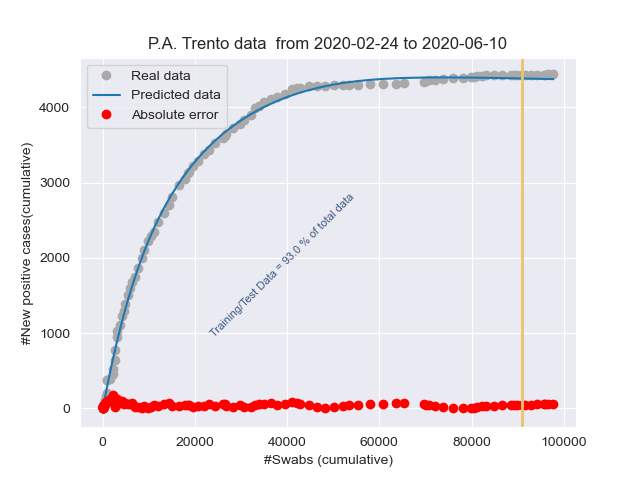
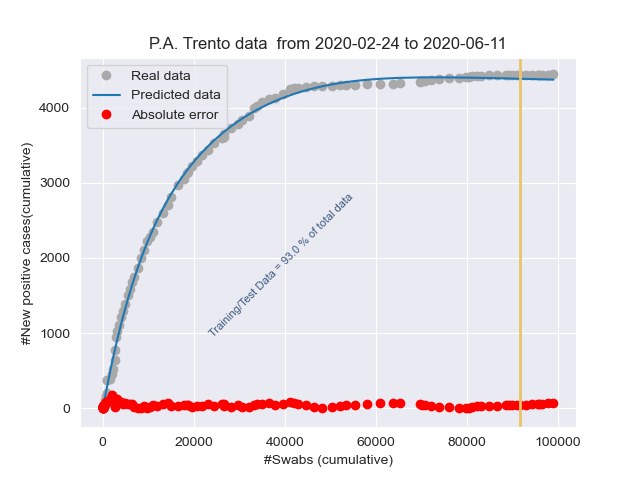
Add files via upload

diff --git a/stat_Friuli Venezia Giulia.html b/stat_Friuli Venezia Giulia.html
@@ -1,1 +1,1 @@
-<!DOCTYPE html><html lang="it"><head><title>Results</title><meta charset="utf-8"><meta name="viewport" content="width=device-width, initial-scale=1"><link rel="stylesheet" href="bootstrap.min.css"><script src="https://ajax.googleapis.com/ajax/libs/jquery/3.4.1/jquery.min.js"></script><script src="https://maxcdn.bootstrapcdn.com/bootstrap/3.4.1/js/bootstrap.min.js"></script></head><body><h3>Day: 2020-06-10</h3><p class="lead my-3">New positive cases: <b>2</b></p><p class="lead my-3">Variation of positive cases: <b>inf%</b></p><p class="lead my-3">Number of swabs: <b>3977.0</b></p><p class="lead my-3">Variation of swabs: <b>2.67%</b></p><p class="lead my-3">Postive cases/Swabs: <b>0.05 %</b></p><p class="lead my-3">Number of people admitted to Intensive care: <b>1</b></p><p class="lead my-3">Number of recovered people: <b>16.0</b></p><p class="lead my-3">Number of dead people: <b>1.0</b></p><h3>Total</h3><p class="lead my-3">Population of  Friuli Venezia Giulia: <b>1215220</b> <a href="http://dati.istat.it/Index.aspx?QueryId=18548" target="_blank">ISTAT data</a></p><p class="lead my-3">Total number of positive cases from 2020-02-24 00:00:00 to 2020-06-10: <b> 3286</b></p><p class="lead my-3">Total number of swabs from 2020-02-24 00:00:00 to 2020-06-10: <b> 152866</b></p><p class="lead my-3">TotalSwabs/Population: <b> 12.58%</b></p></body></html>
+<!DOCTYPE html><html lang="it"><head><title>Results</title><meta charset="utf-8"><meta name="viewport" content="width=device-width, initial-scale=1"><link rel="stylesheet" href="bootstrap.min.css"><script src="https://ajax.googleapis.com/ajax/libs/jquery/3.4.1/jquery.min.js"></script><script src="https://maxcdn.bootstrapcdn.com/bootstrap/3.4.1/js/bootstrap.min.js"></script></head><body><h3>Day: 2020-06-11</h3><p class="lead my-3">New positive cases: <b>1</b></p><p class="lead my-3">Variation of positive cases: <b>-50.0%</b></p><p class="lead my-3">Number of swabs: <b>897.0</b></p><p class="lead my-3">Variation of swabs: <b>0.59%</b></p><p class="lead my-3">Postive cases/Swabs: <b>0.11 %</b></p><p class="lead my-3">Number of people admitted to Intensive care: <b>0</b></p><p class="lead my-3">Number of recovered people: <b>1.0</b></p><p class="lead my-3">Number of dead people: <b>1.0</b></p><h3>Total</h3><p class="lead my-3">Population of  Friuli Venezia Giulia: <b>1215220</b> <a href="http://dati.istat.it/Index.aspx?QueryId=18548" target="_blank">ISTAT data</a></p><p class="lead my-3">Total number of positive cases from 2020-02-24 00:00:00 to 2020-06-11: <b> 3287</b></p><p class="lead my-3">Total number of swabs from 2020-02-24 00:00:00 to 2020-06-11: <b> 153763</b></p><p class="lead my-3">TotalSwabs/Population: <b> 12.65%</b></p></body></html>

diff --git a/stat_Italy.html b/stat_Italy.html
@@ -1,1 +1,1 @@
-<!DOCTYPE html><html lang="it"><head><title>Results</title><meta charset="utf-8"><meta name="viewport" content="width=device-width, initial-scale=1"><link rel="stylesheet" href="bootstrap.min.css"><script src="https://ajax.googleapis.com/ajax/libs/jquery/3.4.1/jquery.min.js"></script><script src="https://maxcdn.bootstrapcdn.com/bootstrap/3.4.1/js/bootstrap.min.js"></script></head><body><h3>Day: 2020-06-10</h3><p class="lead my-3">New positive cases: <b>202</b></p><p class="lead my-3">Variation of positive cases: <b>-28.62%</b></p><p class="lead my-3">Number of swabs: <b>62699.0</b></p><p class="lead my-3">Variation of swabs: <b>1.45%</b></p><p class="lead my-3">Postive cases/Swabs: <b>0.32 %</b></p><p class="lead my-3">Number of people admitted to Intensive care: <b>249</b></p><p class="lead my-3">Number of recovered people: <b>1293.0</b></p><p class="lead my-3">Number of dead people: <b>71.0</b></p><h3>Total</h3><p class="lead my-3">Population of  Italy: <b>60359546</b> <a href="http://dati.istat.it/Index.aspx?QueryId=18548" target="_blank">ISTAT data</a></p><p class="lead my-3">Total number of positive cases from 2020-02-24 00:00:00 to 2020-06-10: <b> 235755</b></p><p class="lead my-3">Total number of swabs from 2020-02-24 00:00:00 to 2020-06-10: <b> 4381349</b></p><p class="lead my-3">TotalSwabs/Population: <b> 7.26%</b></p></body></html>
+<!DOCTYPE html><html lang="it"><head><title>Results</title><meta charset="utf-8"><meta name="viewport" content="width=device-width, initial-scale=1"><link rel="stylesheet" href="bootstrap.min.css"><script src="https://ajax.googleapis.com/ajax/libs/jquery/3.4.1/jquery.min.js"></script><script src="https://maxcdn.bootstrapcdn.com/bootstrap/3.4.1/js/bootstrap.min.js"></script></head><body><h3>Day: 2020-06-11</h3><p class="lead my-3">New positive cases: <b>379</b></p><p class="lead my-3">Variation of positive cases: <b>87.62%</b></p><p class="lead my-3">Number of swabs: <b>62472.0</b></p><p class="lead my-3">Variation of swabs: <b>1.43%</b></p><p class="lead my-3">Postive cases/Swabs: <b>0.61 %</b></p><p class="lead my-3">Number of people admitted to Intensive care: <b>236</b></p><p class="lead my-3">Number of recovered people: <b>1399.0</b></p><p class="lead my-3">Number of dead people: <b>53.0</b></p><h3>Total</h3><p class="lead my-3">Population of  Italy: <b>60359546</b> <a href="http://dati.istat.it/Index.aspx?QueryId=18548" target="_blank">ISTAT data</a></p><p class="lead my-3">Total number of positive cases from 2020-02-24 00:00:00 to 2020-06-11: <b> 236134</b></p><p class="lead my-3">Total number of swabs from 2020-02-24 00:00:00 to 2020-06-11: <b> 4443821</b></p><p class="lead my-3">TotalSwabs/Population: <b> 7.36%</b></p></body></html>

diff --git a/stat_Emilia-Romagna.html b/stat_Emilia-Romagna.html
@@ -1,1 +1,1 @@
-<!DOCTYPE html><html lang="it"><head><title>Results</title><meta charset="utf-8"><meta name="viewport" content="width=device-width, initial-scale=1"><link rel="stylesheet" href="bootstrap.min.css"><script src="https://ajax.googleapis.com/ajax/libs/jquery/3.4.1/jquery.min.js"></script><script src="https://maxcdn.bootstrapcdn.com/bootstrap/3.4.1/js/bootstrap.min.js"></script></head><body><h3>Day: 2020-06-10</h3><p class="lead my-3">New positive cases: <b>24</b></p><p class="lead my-3">Variation of positive cases: <b>33.33%</b></p><p class="lead my-3">Number of swabs: <b>7793.0</b></p><p class="lead my-3">Variation of swabs: <b>2.12%</b></p><p class="lead my-3">Postive cases/Swabs: <b>0.31 %</b></p><p class="lead my-3">Number of people admitted to Intensive care: <b>25</b></p><p class="lead my-3">Number of recovered people: <b>112.0</b></p><p class="lead my-3">Number of dead people: <b>7.0</b></p><h3>Total</h3><p class="lead my-3">Population of  Emilia-Romagna: <b>4459477</b> <a href="http://dati.istat.it/Index.aspx?QueryId=18548" target="_blank">ISTAT data</a></p><p class="lead my-3">Total number of positive cases from 2020-02-24 00:00:00 to 2020-06-10: <b> 27970</b></p><p class="lead my-3">Total number of swabs from 2020-02-24 00:00:00 to 2020-06-10: <b> 375278</b></p><p class="lead my-3">TotalSwabs/Population: <b> 8.42%</b></p></body></html>
+<!DOCTYPE html><html lang="it"><head><title>Results</title><meta charset="utf-8"><meta name="viewport" content="width=device-width, initial-scale=1"><link rel="stylesheet" href="bootstrap.min.css"><script src="https://ajax.googleapis.com/ajax/libs/jquery/3.4.1/jquery.min.js"></script><script src="https://maxcdn.bootstrapcdn.com/bootstrap/3.4.1/js/bootstrap.min.js"></script></head><body><h3>Day: 2020-06-11</h3><p class="lead my-3">New positive cases: <b>25</b></p><p class="lead my-3">Variation of positive cases: <b>4.17%</b></p><p class="lead my-3">Number of swabs: <b>9942.0</b></p><p class="lead my-3">Variation of swabs: <b>2.65%</b></p><p class="lead my-3">Postive cases/Swabs: <b>0.25 %</b></p><p class="lead my-3">Number of people admitted to Intensive care: <b>18</b></p><p class="lead my-3">Number of recovered people: <b>86.0</b></p><p class="lead my-3">Number of dead people: <b>0.0</b></p><h3>Total</h3><p class="lead my-3">Population of  Emilia-Romagna: <b>4459477</b> <a href="http://dati.istat.it/Index.aspx?QueryId=18548" target="_blank">ISTAT data</a></p><p class="lead my-3">Total number of positive cases from 2020-02-24 00:00:00 to 2020-06-11: <b> 27995</b></p><p class="lead my-3">Total number of swabs from 2020-02-24 00:00:00 to 2020-06-11: <b> 385220</b></p><p class="lead my-3">TotalSwabs/Population: <b> 8.64%</b></p></body></html>

diff --git a/stat_Lombardia.html b/stat_Lombardia.html
@@ -1,1 +1,1 @@
-<!DOCTYPE html><html lang="it"><head><title>Results</title><meta charset="utf-8"><meta name="viewport" content="width=device-width, initial-scale=1"><link rel="stylesheet" href="bootstrap.min.css"><script src="https://ajax.googleapis.com/ajax/libs/jquery/3.4.1/jquery.min.js"></script><script src="https://maxcdn.bootstrapcdn.com/bootstrap/3.4.1/js/bootstrap.min.js"></script></head><body><h3>Day: 2020-06-10</h3><p class="lead my-3">New positive cases: <b>99</b></p><p class="lead my-3">Variation of positive cases: <b>-48.44%</b></p><p class="lead my-3">Number of swabs: <b>9305.0</b></p><p class="lead my-3">Variation of swabs: <b>1.11%</b></p><p class="lead my-3">Postive cases/Swabs: <b>1.06 %</b></p><p class="lead my-3">Number of people admitted to Intensive care: <b>98</b></p><p class="lead my-3">Number of recovered people: <b>507.0</b></p><p class="lead my-3">Number of dead people: <b>32.0</b></p><h3>Total</h3><p class="lead my-3">Population of  Lombardia: <b>10060574</b> <a href="http://dati.istat.it/Index.aspx?QueryId=18548" target="_blank">ISTAT data</a></p><p class="lead my-3">Total number of positive cases from 2020-02-24 00:00:00 to 2020-06-10: <b> 90674</b></p><p class="lead my-3">Total number of swabs from 2020-02-24 00:00:00 to 2020-06-10: <b> 845618</b></p><p class="lead my-3">TotalSwabs/Population: <b> 8.41%</b></p></body></html>
+<!DOCTYPE html><html lang="it"><head><title>Results</title><meta charset="utf-8"><meta name="viewport" content="width=device-width, initial-scale=1"><link rel="stylesheet" href="bootstrap.min.css"><script src="https://ajax.googleapis.com/ajax/libs/jquery/3.4.1/jquery.min.js"></script><script src="https://maxcdn.bootstrapcdn.com/bootstrap/3.4.1/js/bootstrap.min.js"></script></head><body><h3>Day: 2020-06-11</h3><p class="lead my-3">New positive cases: <b>252</b></p><p class="lead my-3">Variation of positive cases: <b>154.55%</b></p><p class="lead my-3">Number of swabs: <b>13376.0</b></p><p class="lead my-3">Variation of swabs: <b>1.58%</b></p><p class="lead my-3">Postive cases/Swabs: <b>1.88 %</b></p><p class="lead my-3">Number of people admitted to Intensive care: <b>97</b></p><p class="lead my-3">Number of recovered people: <b>744.0</b></p><p class="lead my-3">Number of dead people: <b>25.0</b></p><h3>Total</h3><p class="lead my-3">Population of  Lombardia: <b>10060574</b> <a href="http://dati.istat.it/Index.aspx?QueryId=18548" target="_blank">ISTAT data</a></p><p class="lead my-3">Total number of positive cases from 2020-02-24 00:00:00 to 2020-06-11: <b> 90926</b></p><p class="lead my-3">Total number of swabs from 2020-02-24 00:00:00 to 2020-06-11: <b> 858994</b></p><p class="lead my-3">TotalSwabs/Population: <b> 8.54%</b></p></body></html>

diff --git a/stat_Piemonte.html b/stat_Piemonte.html
@@ -1,1 +1,1 @@
-<!DOCTYPE html><html lang="it"><head><title>Results</title><meta charset="utf-8"><meta name="viewport" content="width=device-width, initial-scale=1"><link rel="stylesheet" href="bootstrap.min.css"><script src="https://ajax.googleapis.com/ajax/libs/jquery/3.4.1/jquery.min.js"></script><script src="https://maxcdn.bootstrapcdn.com/bootstrap/3.4.1/js/bootstrap.min.js"></script></head><body><h3>Day: 2020-06-10</h3><p class="lead my-3">New positive cases: <b>26</b></p><p class="lead my-3">Variation of positive cases: <b>23.81%</b></p><p class="lead my-3">Number of swabs: <b>4967.0</b></p><p class="lead my-3">Variation of swabs: <b>1.42%</b></p><p class="lead my-3">Postive cases/Swabs: <b>0.52 %</b></p><p class="lead my-3">Number of people admitted to Intensive care: <b>35</b></p><p class="lead my-3">Number of recovered people: <b>310.0</b></p><p class="lead my-3">Number of dead people: <b>15.0</b></p><h3>Total</h3><p class="lead my-3">Population of  Piemonte: <b>4356406</b> <a href="http://dati.istat.it/Index.aspx?QueryId=18548" target="_blank">ISTAT data</a></p><p class="lead my-3">Total number of positive cases from 2020-02-24 00:00:00 to 2020-06-10: <b> 30916</b></p><p class="lead my-3">Total number of swabs from 2020-02-24 00:00:00 to 2020-06-10: <b> 353737</b></p><p class="lead my-3">TotalSwabs/Population: <b> 8.12%</b></p></body></html>
+<!DOCTYPE html><html lang="it"><head><title>Results</title><meta charset="utf-8"><meta name="viewport" content="width=device-width, initial-scale=1"><link rel="stylesheet" href="bootstrap.min.css"><script src="https://ajax.googleapis.com/ajax/libs/jquery/3.4.1/jquery.min.js"></script><script src="https://maxcdn.bootstrapcdn.com/bootstrap/3.4.1/js/bootstrap.min.js"></script></head><body><h3>Day: 2020-06-11</h3><p class="lead my-3">New positive cases: <b>42</b></p><p class="lead my-3">Variation of positive cases: <b>61.54%</b></p><p class="lead my-3">Number of swabs: <b>4220.0</b></p><p class="lead my-3">Variation of swabs: <b>1.19%</b></p><p class="lead my-3">Postive cases/Swabs: <b>1.0 %</b></p><p class="lead my-3">Number of people admitted to Intensive care: <b>33</b></p><p class="lead my-3">Number of recovered people: <b>219.0</b></p><p class="lead my-3">Number of dead people: <b>12.0</b></p><h3>Total</h3><p class="lead my-3">Population of  Piemonte: <b>4356406</b> <a href="http://dati.istat.it/Index.aspx?QueryId=18548" target="_blank">ISTAT data</a></p><p class="lead my-3">Total number of positive cases from 2020-02-24 00:00:00 to 2020-06-11: <b> 30958</b></p><p class="lead my-3">Total number of swabs from 2020-02-24 00:00:00 to 2020-06-11: <b> 357957</b></p><p class="lead my-3">TotalSwabs/Population: <b> 8.22%</b></p></body></html>

diff --git a/stat_Toscana.html b/stat_Toscana.html
@@ -1,1 +1,1 @@
-<!DOCTYPE html><html lang="it"><head><title>Results</title><meta charset="utf-8"><meta name="viewport" content="width=device-width, initial-scale=1"><link rel="stylesheet" href="bootstrap.min.css"><script src="https://ajax.googleapis.com/ajax/libs/jquery/3.4.1/jquery.min.js"></script><script src="https://maxcdn.bootstrapcdn.com/bootstrap/3.4.1/js/bootstrap.min.js"></script></head><body><h3>Day: 2020-06-10</h3><p class="lead my-3">New positive cases: <b>3</b></p><p class="lead my-3">Variation of positive cases: <b>200.0%</b></p><p class="lead my-3">Number of swabs: <b>3399.0</b></p><p class="lead my-3">Variation of swabs: <b>1.23%</b></p><p class="lead my-3">Postive cases/Swabs: <b>0.09 %</b></p><p class="lead my-3">Number of people admitted to Intensive care: <b>15</b></p><p class="lead my-3">Number of recovered people: <b>91.0</b></p><p class="lead my-3">Number of dead people: <b>1.0</b></p><h3>Total</h3><p class="lead my-3">Population of  Toscana: <b>3729641</b> <a href="http://dati.istat.it/Index.aspx?QueryId=18548" target="_blank">ISTAT data</a></p><p class="lead my-3">Total number of positive cases from 2020-02-24 00:00:00 to 2020-06-10: <b> 10148</b></p><p class="lead my-3">Total number of swabs from 2020-02-24 00:00:00 to 2020-06-10: <b> 280491</b></p><p class="lead my-3">TotalSwabs/Population: <b> 7.52%</b></p></body></html>
+<!DOCTYPE html><html lang="it"><head><title>Results</title><meta charset="utf-8"><meta name="viewport" content="width=device-width, initial-scale=1"><link rel="stylesheet" href="bootstrap.min.css"><script src="https://ajax.googleapis.com/ajax/libs/jquery/3.4.1/jquery.min.js"></script><script src="https://maxcdn.bootstrapcdn.com/bootstrap/3.4.1/js/bootstrap.min.js"></script></head><body><h3>Day: 2020-06-11</h3><p class="lead my-3">New positive cases: <b>10</b></p><p class="lead my-3">Variation of positive cases: <b>233.33%</b></p><p class="lead my-3">Number of swabs: <b>3147.0</b></p><p class="lead my-3">Variation of swabs: <b>1.12%</b></p><p class="lead my-3">Postive cases/Swabs: <b>0.32 %</b></p><p class="lead my-3">Number of people admitted to Intensive care: <b>15</b></p><p class="lead my-3">Number of recovered people: <b>27.0</b></p><p class="lead my-3">Number of dead people: <b>1.0</b></p><h3>Total</h3><p class="lead my-3">Population of  Toscana: <b>3729641</b> <a href="http://dati.istat.it/Index.aspx?QueryId=18548" target="_blank">ISTAT data</a></p><p class="lead my-3">Total number of positive cases from 2020-02-24 00:00:00 to 2020-06-11: <b> 10158</b></p><p class="lead my-3">Total number of swabs from 2020-02-24 00:00:00 to 2020-06-11: <b> 283638</b></p><p class="lead my-3">TotalSwabs/Population: <b> 7.6%</b></p></body></html>

diff --git a/stat_P.A. Trento.html b/stat_P.A. Trento.html
@@ -1,1 +1,1 @@
-<!DOCTYPE html><html lang="it"><head><title>Results</title><meta charset="utf-8"><meta name="viewport" content="width=device-width, initial-scale=1"><link rel="stylesheet" href="bootstrap.min.css"><script src="https://ajax.googleapis.com/ajax/libs/jquery/3.4.1/jquery.min.js"></script><script src="https://maxcdn.bootstrapcdn.com/bootstrap/3.4.1/js/bootstrap.min.js"></script></head><body><h3>Day: 2020-06-10</h3><p class="lead my-3">New positive cases: <b>0</b></p><p class="lead my-3">Variation of positive cases: <b>-100.0%</b></p><p class="lead my-3">Number of swabs: <b>1212.0</b></p><p class="lead my-3">Variation of swabs: <b>1.26%</b></p><p class="lead my-3">Postive cases/Swabs: <b>0.0 %</b></p><p class="lead my-3">Number of people admitted to Intensive care: <b>1</b></p><p class="lead my-3">Number of recovered people: <b>1.0</b></p><p class="lead my-3">Number of dead people: <b>0.0</b></p><h3>Total</h3><p class="lead my-3">Population of  P.A. Trento: <b>541098</b> <a href="http://dati.istat.it/Index.aspx?QueryId=18548" target="_blank">ISTAT data</a></p><p class="lead my-3">Total number of positive cases from 2020-02-24 00:00:00 to 2020-06-10: <b> 4439</b></p><p class="lead my-3">Total number of swabs from 2020-02-24 00:00:00 to 2020-06-10: <b> 97739</b></p><p class="lead my-3">TotalSwabs/Population: <b> 18.06%</b></p></body></html>
+<!DOCTYPE html><html lang="it"><head><title>Results</title><meta charset="utf-8"><meta name="viewport" content="width=device-width, initial-scale=1"><link rel="stylesheet" href="bootstrap.min.css"><script src="https://ajax.googleapis.com/ajax/libs/jquery/3.4.1/jquery.min.js"></script><script src="https://maxcdn.bootstrapcdn.com/bootstrap/3.4.1/js/bootstrap.min.js"></script></head><body><h3>Day: 2020-06-11</h3><p class="lead my-3">New positive cases: <b>2</b></p><p class="lead my-3">Variation of positive cases: <b>inf%</b></p><p class="lead my-3">Number of swabs: <b>1230.0</b></p><p class="lead my-3">Variation of swabs: <b>1.26%</b></p><p class="lead my-3">Postive cases/Swabs: <b>0.16 %</b></p><p class="lead my-3">Number of people admitted to Intensive care: <b>1</b></p><p class="lead my-3">Number of recovered people: <b>11.0</b></p><p class="lead my-3">Number of dead people: <b>0.0</b></p><h3>Total</h3><p class="lead my-3">Population of  P.A. Trento: <b>541098</b> <a href="http://dati.istat.it/Index.aspx?QueryId=18548" target="_blank">ISTAT data</a></p><p class="lead my-3">Total number of positive cases from 2020-02-24 00:00:00 to 2020-06-11: <b> 4441</b></p><p class="lead my-3">Total number of swabs from 2020-02-24 00:00:00 to 2020-06-11: <b> 98969</b></p><p class="lead my-3">TotalSwabs/Population: <b> 18.29%</b></p></body></html>

diff --git a/stat_Veneto.html b/stat_Veneto.html
@@ -1,1 +1,1 @@
-<!DOCTYPE html><html lang="it"><head><title>Results</title><meta charset="utf-8"><meta name="viewport" content="width=device-width, initial-scale=1"><link rel="stylesheet" href="bootstrap.min.css"><script src="https://ajax.googleapis.com/ajax/libs/jquery/3.4.1/jquery.min.js"></script><script src="https://maxcdn.bootstrapcdn.com/bootstrap/3.4.1/js/bootstrap.min.js"></script></head><body><h3>Day: 2020-06-10</h3><p class="lead my-3">New positive cases: <b>3</b></p><p class="lead my-3">Variation of positive cases: <b>-25.0%</b></p><p class="lead my-3">Number of swabs: <b>11218.0</b></p><p class="lead my-3">Variation of swabs: <b>1.47%</b></p><p class="lead my-3">Postive cases/Swabs: <b>0.03 %</b></p><p class="lead my-3">Number of people admitted to Intensive care: <b>0</b></p><p class="lead my-3">Number of recovered people: <b>42.0</b></p><p class="lead my-3">Number of dead people: <b>0.0</b></p><h3>Total</h3><p class="lead my-3">Population of  Veneto: <b>4905854</b> <a href="http://dati.istat.it/Index.aspx?QueryId=18548" target="_blank">ISTAT data</a></p><p class="lead my-3">Total number of positive cases from 2020-02-24 00:00:00 to 2020-06-10: <b> 19193</b></p><p class="lead my-3">Total number of swabs from 2020-02-24 00:00:00 to 2020-06-10: <b> 773316</b></p><p class="lead my-3">TotalSwabs/Population: <b> 15.76%</b></p></body></html>
+<!DOCTYPE html><html lang="it"><head><title>Results</title><meta charset="utf-8"><meta name="viewport" content="width=device-width, initial-scale=1"><link rel="stylesheet" href="bootstrap.min.css"><script src="https://ajax.googleapis.com/ajax/libs/jquery/3.4.1/jquery.min.js"></script><script src="https://maxcdn.bootstrapcdn.com/bootstrap/3.4.1/js/bootstrap.min.js"></script></head><body><h3>Day: 2020-06-11</h3><p class="lead my-3">New positive cases: <b>5</b></p><p class="lead my-3">Variation of positive cases: <b>66.67%</b></p><p class="lead my-3">Number of swabs: <b>7129.0</b></p><p class="lead my-3">Variation of swabs: <b>0.92%</b></p><p class="lead my-3">Postive cases/Swabs: <b>0.07 %</b></p><p class="lead my-3">Number of people admitted to Intensive care: <b>0</b></p><p class="lead my-3">Number of recovered people: <b>45.0</b></p><p class="lead my-3">Number of dead people: <b>3.0</b></p><h3>Total</h3><p class="lead my-3">Population of  Veneto: <b>4905854</b> <a href="http://dati.istat.it/Index.aspx?QueryId=18548" target="_blank">ISTAT data</a></p><p class="lead my-3">Total number of positive cases from 2020-02-24 00:00:00 to 2020-06-11: <b> 19198</b></p><p class="lead my-3">Total number of swabs from 2020-02-24 00:00:00 to 2020-06-11: <b> 780445</b></p><p class="lead my-3">TotalSwabs/Population: <b> 15.91%</b></p></body></html>

diff --git a/stat_Campania.html b/stat_Campania.html
@@ -1,1 +1,1 @@
-<!DOCTYPE html><html lang="it"><head><title>Results</title><meta charset="utf-8"><meta name="viewport" content="width=device-width, initial-scale=1"><link rel="stylesheet" href="bootstrap.min.css"><script src="https://ajax.googleapis.com/ajax/libs/jquery/3.4.1/jquery.min.js"></script><script src="https://maxcdn.bootstrapcdn.com/bootstrap/3.4.1/js/bootstrap.min.js"></script></head><body><h3>Day: 2020-06-10</h3><p class="lead my-3">New positive cases: <b>1</b></p><p class="lead my-3">Variation of positive cases: <b>-80.0%</b></p><p class="lead my-3">Number of swabs: <b>2640.0</b></p><p class="lead my-3">Variation of swabs: <b>1.2%</b></p><p class="lead my-3">Postive cases/Swabs: <b>0.04 %</b></p><p class="lead my-3">Number of people admitted to Intensive care: <b>2</b></p><p class="lead my-3">Number of recovered people: <b>32.0</b></p><p class="lead my-3">Number of dead people: <b>2.0</b></p><h3>Total</h3><p class="lead my-3">Population of  Campania: <b>5801692</b> <a href="http://dati.istat.it/Index.aspx?QueryId=18548" target="_blank">ISTAT data</a></p><p class="lead my-3">Total number of positive cases from 2020-02-24 00:00:00 to 2020-06-10: <b> 4834</b></p><p class="lead my-3">Total number of swabs from 2020-02-24 00:00:00 to 2020-06-10: <b> 223302</b></p><p class="lead my-3">TotalSwabs/Population: <b> 3.85%</b></p></body></html>
+<!DOCTYPE html><html lang="it"><head><title>Results</title><meta charset="utf-8"><meta name="viewport" content="width=device-width, initial-scale=1"><link rel="stylesheet" href="bootstrap.min.css"><script src="https://ajax.googleapis.com/ajax/libs/jquery/3.4.1/jquery.min.js"></script><script src="https://maxcdn.bootstrapcdn.com/bootstrap/3.4.1/js/bootstrap.min.js"></script></head><body><h3>Day: 2020-06-11</h3><p class="lead my-3">New positive cases: <b>3</b></p><p class="lead my-3">Variation of positive cases: <b>200.0%</b></p><p class="lead my-3">Number of swabs: <b>3521.0</b></p><p class="lead my-3">Variation of swabs: <b>1.58%</b></p><p class="lead my-3">Postive cases/Swabs: <b>0.09 %</b></p><p class="lead my-3">Number of people admitted to Intensive care: <b>2</b></p><p class="lead my-3">Number of recovered people: <b>33.0</b></p><p class="lead my-3">Number of dead people: <b>2.0</b></p><h3>Total</h3><p class="lead my-3">Population of  Campania: <b>5801692</b> <a href="http://dati.istat.it/Index.aspx?QueryId=18548" target="_blank">ISTAT data</a></p><p class="lead my-3">Total number of positive cases from 2020-02-24 00:00:00 to 2020-06-11: <b> 4837</b></p><p class="lead my-3">Total number of swabs from 2020-02-24 00:00:00 to 2020-06-11: <b> 226823</b></p><p class="lead my-3">TotalSwabs/Population: <b> 3.91%</b></p></body></html>

diff --git a/stat_Liguria.html b/stat_Liguria.html
@@ -1,1 +1,1 @@
-<!DOCTYPE html><html lang="it"><head><title>Results</title><meta charset="utf-8"><meta name="viewport" content="width=device-width, initial-scale=1"><link rel="stylesheet" href="bootstrap.min.css"><script src="https://ajax.googleapis.com/ajax/libs/jquery/3.4.1/jquery.min.js"></script><script src="https://maxcdn.bootstrapcdn.com/bootstrap/3.4.1/js/bootstrap.min.js"></script></head><body><h3>Day: 2020-06-10</h3><p class="lead my-3">New positive cases: <b>20</b></p><p class="lead my-3">Variation of positive cases: <b>150.0%</b></p><p class="lead my-3">Number of swabs: <b>2132.0</b></p><p class="lead my-3">Variation of swabs: <b>1.79%</b></p><p class="lead my-3">Postive cases/Swabs: <b>0.94 %</b></p><p class="lead my-3">Number of people admitted to Intensive care: <b>3</b></p><p class="lead my-3">Number of recovered people: <b>20.0</b></p><p class="lead my-3">Number of dead people: <b>4.0</b></p><h3>Total</h3><p class="lead my-3">Population of  Liguria: <b>1550640</b> <a href="http://dati.istat.it/Index.aspx?QueryId=18548" target="_blank">ISTAT data</a></p><p class="lead my-3">Total number of positive cases from 2020-02-24 00:00:00 to 2020-06-10: <b> 9854</b></p><p class="lead my-3">Total number of swabs from 2020-02-24 00:00:00 to 2020-06-10: <b> 121023</b></p><p class="lead my-3">TotalSwabs/Population: <b> 7.8%</b></p></body></html>
+<!DOCTYPE html><html lang="it"><head><title>Results</title><meta charset="utf-8"><meta name="viewport" content="width=device-width, initial-scale=1"><link rel="stylesheet" href="bootstrap.min.css"><script src="https://ajax.googleapis.com/ajax/libs/jquery/3.4.1/jquery.min.js"></script><script src="https://maxcdn.bootstrapcdn.com/bootstrap/3.4.1/js/bootstrap.min.js"></script></head><body><h3>Day: 2020-06-11</h3><p class="lead my-3">New positive cases: <b>10</b></p><p class="lead my-3">Variation of positive cases: <b>-50.0%</b></p><p class="lead my-3">Number of swabs: <b>1631.0</b></p><p class="lead my-3">Variation of swabs: <b>1.35%</b></p><p class="lead my-3">Postive cases/Swabs: <b>0.61 %</b></p><p class="lead my-3">Number of people admitted to Intensive care: <b>3</b></p><p class="lead my-3">Number of recovered people: <b>4.0</b></p><p class="lead my-3">Number of dead people: <b>1.0</b></p><h3>Total</h3><p class="lead my-3">Population of  Liguria: <b>1550640</b> <a href="http://dati.istat.it/Index.aspx?QueryId=18548" target="_blank">ISTAT data</a></p><p class="lead my-3">Total number of positive cases from 2020-02-24 00:00:00 to 2020-06-11: <b> 9864</b></p><p class="lead my-3">Total number of swabs from 2020-02-24 00:00:00 to 2020-06-11: <b> 122654</b></p><p class="lead my-3">TotalSwabs/Population: <b> 7.91%</b></p></body></html>

diff --git a/stat_P.A. Bolzano.html b/stat_P.A. Bolzano.html
@@ -1,1 +1,1 @@
-<!DOCTYPE html><html lang="it"><head><title>Results</title><meta charset="utf-8"><meta name="viewport" content="width=device-width, initial-scale=1"><link rel="stylesheet" href="bootstrap.min.css"><script src="https://ajax.googleapis.com/ajax/libs/jquery/3.4.1/jquery.min.js"></script><script src="https://maxcdn.bootstrapcdn.com/bootstrap/3.4.1/js/bootstrap.min.js"></script></head><body><h3>Day: 2020-06-10</h3><p class="lead my-3">New positive cases: <b>0</b></p><p class="lead my-3">Variation of positive cases: <b>0.0%</b></p><p class="lead my-3">Number of swabs: <b>752.0</b></p><p class="lead my-3">Variation of swabs: <b>1.04%</b></p><p class="lead my-3">Postive cases/Swabs: <b>0.0 %</b></p><p class="lead my-3">Number of people admitted to Intensive care: <b>2</b></p><p class="lead my-3">Number of recovered people: <b>1.0</b></p><p class="lead my-3">Number of dead people: <b>0.0</b></p><h3>Total</h3><p class="lead my-3">Population of  P.A. Bolzano: <b>531178</b> <a href="http://dati.istat.it/Index.aspx?QueryId=18548" target="_blank">ISTAT data</a></p><p class="lead my-3">Total number of positive cases from 2020-02-24 00:00:00 to 2020-06-10: <b> 2604</b></p><p class="lead my-3">Total number of swabs from 2020-02-24 00:00:00 to 2020-06-10: <b> 73404</b></p><p class="lead my-3">TotalSwabs/Population: <b> 13.82%</b></p></body></html>
+<!DOCTYPE html><html lang="it"><head><title>Results</title><meta charset="utf-8"><meta name="viewport" content="width=device-width, initial-scale=1"><link rel="stylesheet" href="bootstrap.min.css"><script src="https://ajax.googleapis.com/ajax/libs/jquery/3.4.1/jquery.min.js"></script><script src="https://maxcdn.bootstrapcdn.com/bootstrap/3.4.1/js/bootstrap.min.js"></script></head><body><h3>Day: 2020-06-11</h3><p class="lead my-3">New positive cases: <b>2</b></p><p class="lead my-3">Variation of positive cases: <b>inf%</b></p><p class="lead my-3">Number of swabs: <b>702.0</b></p><p class="lead my-3">Variation of swabs: <b>0.96%</b></p><p class="lead my-3">Postive cases/Swabs: <b>0.28 %</b></p><p class="lead my-3">Number of people admitted to Intensive care: <b>2</b></p><p class="lead my-3">Number of recovered people: <b>-3.0</b></p><p class="lead my-3">Number of dead people: <b>0.0</b></p><h3>Total</h3><p class="lead my-3">Population of  P.A. Bolzano: <b>531178</b> <a href="http://dati.istat.it/Index.aspx?QueryId=18548" target="_blank">ISTAT data</a></p><p class="lead my-3">Total number of positive cases from 2020-02-24 00:00:00 to 2020-06-11: <b> 2606</b></p><p class="lead my-3">Total number of swabs from 2020-02-24 00:00:00 to 2020-06-11: <b> 74106</b></p><p class="lead my-3">TotalSwabs/Population: <b> 13.95%</b></p></body></html>

diff --git a/stat_Lazio.html b/stat_Lazio.html
@@ -1,1 +1,1 @@
-<!DOCTYPE html><html lang="it"><head><title>Results</title><meta charset="utf-8"><meta name="viewport" content="width=device-width, initial-scale=1"><link rel="stylesheet" href="bootstrap.min.css"><script src="https://ajax.googleapis.com/ajax/libs/jquery/3.4.1/jquery.min.js"></script><script src="https://maxcdn.bootstrapcdn.com/bootstrap/3.4.1/js/bootstrap.min.js"></script></head><body><h3>Day: 2020-06-10</h3><p class="lead my-3">New positive cases: <b>18</b></p><p class="lead my-3">Variation of positive cases: <b>-21.74%</b></p><p class="lead my-3">Number of swabs: <b>4058.0</b></p><p class="lead my-3">Variation of swabs: <b>1.45%</b></p><p class="lead my-3">Postive cases/Swabs: <b>0.44 %</b></p><p class="lead my-3">Number of people admitted to Intensive care: <b>47</b></p><p class="lead my-3">Number of recovered people: <b>18.0</b></p><p class="lead my-3">Number of dead people: <b>4.0</b></p><h3>Total</h3><p class="lead my-3">Population of  Lazio: <b>5879082</b> <a href="http://dati.istat.it/Index.aspx?QueryId=18548" target="_blank">ISTAT data</a></p><p class="lead my-3">Total number of positive cases from 2020-02-24 00:00:00 to 2020-06-10: <b> 7868</b></p><p class="lead my-3">Total number of swabs from 2020-02-24 00:00:00 to 2020-06-10: <b> 283630</b></p><p class="lead my-3">TotalSwabs/Population: <b> 4.82%</b></p></body></html>
+<!DOCTYPE html><html lang="it"><head><title>Results</title><meta charset="utf-8"><meta name="viewport" content="width=device-width, initial-scale=1"><link rel="stylesheet" href="bootstrap.min.css"><script src="https://ajax.googleapis.com/ajax/libs/jquery/3.4.1/jquery.min.js"></script><script src="https://maxcdn.bootstrapcdn.com/bootstrap/3.4.1/js/bootstrap.min.js"></script></head><body><h3>Day: 2020-06-11</h3><p class="lead my-3">New positive cases: <b>20</b></p><p class="lead my-3">Variation of positive cases: <b>11.11%</b></p><p class="lead my-3">Number of swabs: <b>4258.0</b></p><p class="lead my-3">Variation of swabs: <b>1.5%</b></p><p class="lead my-3">Postive cases/Swabs: <b>0.47 %</b></p><p class="lead my-3">Number of people admitted to Intensive care: <b>46</b></p><p class="lead my-3">Number of recovered people: <b>63.0</b></p><p class="lead my-3">Number of dead people: <b>6.0</b></p><h3>Total</h3><p class="lead my-3">Population of  Lazio: <b>5879082</b> <a href="http://dati.istat.it/Index.aspx?QueryId=18548" target="_blank">ISTAT data</a></p><p class="lead my-3">Total number of positive cases from 2020-02-24 00:00:00 to 2020-06-11: <b> 7888</b></p><p class="lead my-3">Total number of swabs from 2020-02-24 00:00:00 to 2020-06-11: <b> 287888</b></p><p class="lead my-3">TotalSwabs/Population: <b> 4.9%</b></p></body></html>
